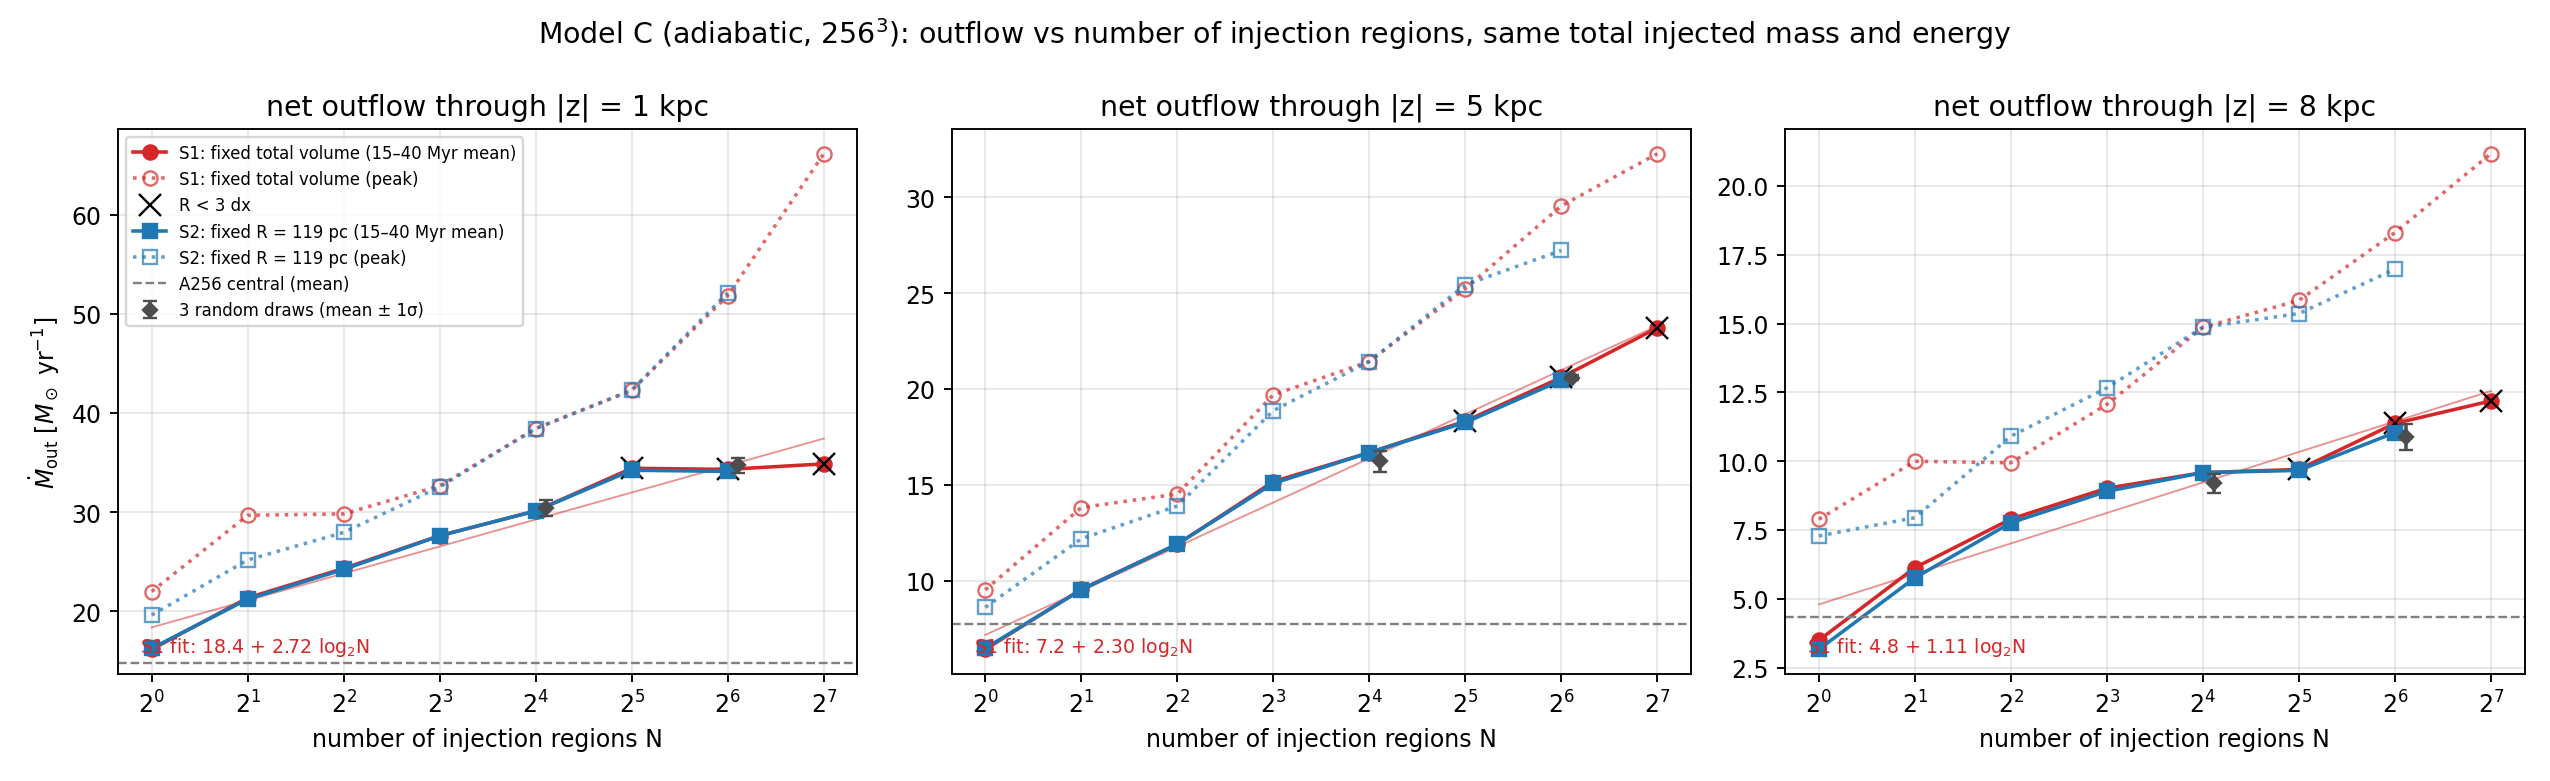
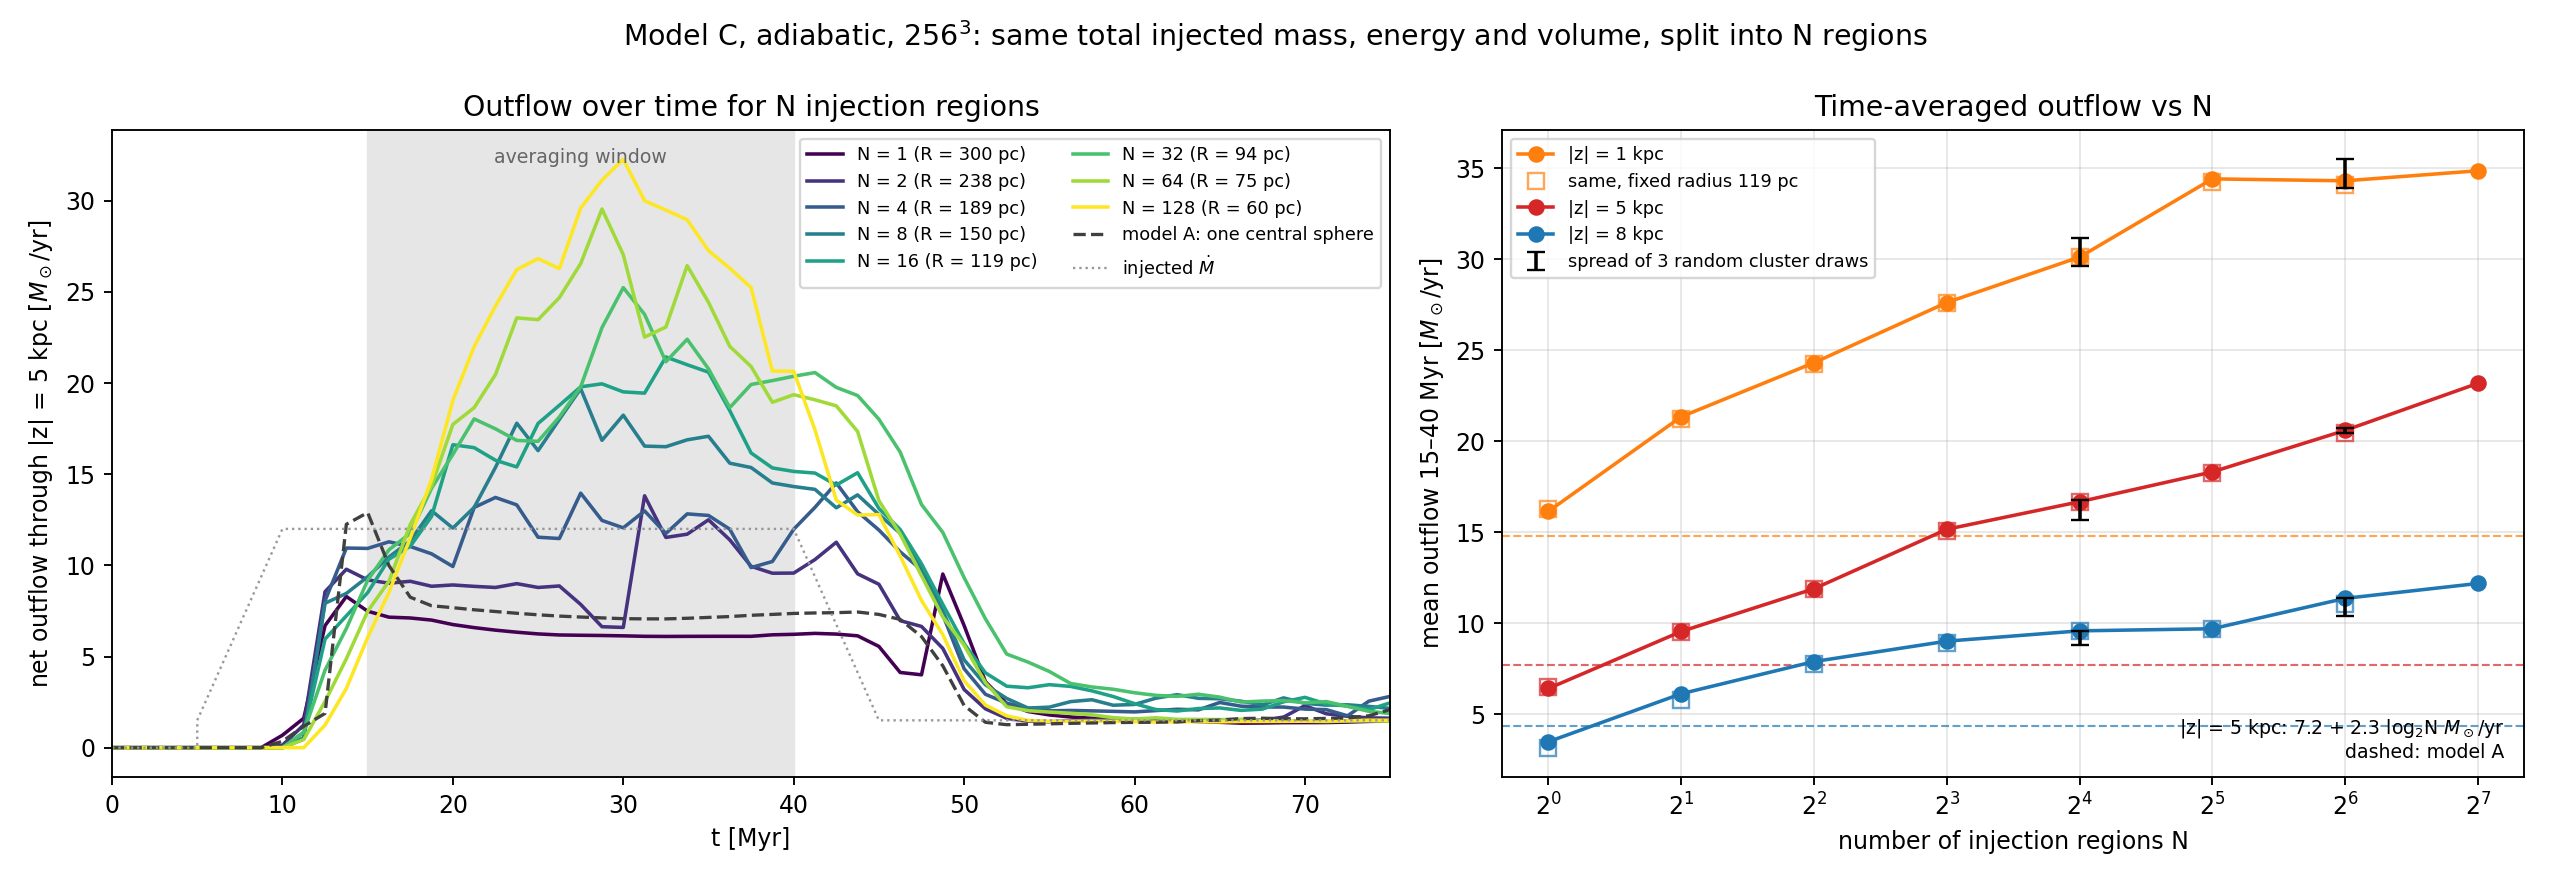
cgols: model C default tag _C (_Ccool radiative); clearer cluster-number figure
The cluster-number figure now shows the net outflow through |z| = 5 kpc against
time, one line per number of injection regions N (1-128) with model A and the
injected rate, next to the 15-40 Myr mean against N at 1/5/8 kpc (fixed-radius
runs as open squares, the spread of three random cluster draws as error bars,
model A dashed). The C512rot comparison uses the renamed runs.

Claude-Session: https://claude.ai/code/session_017KSSY2CwxMXeapK3WuKUK4

diff --git a/pytests/self_gravity/cgols/cgols_cluster_number_scaling.py b/pytests/self_gravity/cgols/cgols_cluster_number_scaling.py
@@ -64,55 +64,77 @@ def metrics(run):
     return out
 
 
+def outflow_series(run, height=5.0):
+    """Times [Myr] and net outflow [Msun/yr] through |z| = height for one run."""
+    t, mdot = load(run)
+    z = (np.arange(mdot.shape[1]) + 0.5) * BOX_Z / mdot.shape[1] - BOX_Z / 2
+    return t, mdot[:, np.argmin(np.abs(z - height))] - mdot[:, np.argmin(np.abs(z + height))]
+
+
 def main():
-    s1 = {n: metrics(r) for n, r in S1.items()}
-    s2 = {n: metrics(r) for n, r in S2.items()}
+    fixed_volume = {n: metrics(r) for n, r in S1.items()}
+    fixed_radius = {n: metrics(r) for n, r in S2.items()}
     ref = metrics(REFERENCE)
     seeds = {n: [m for m in (metrics(r) for r in runs) if m is not None] for n, runs in SEEDS.items()}
 
-    figure, axes = plt.subplots(1, 3, figsize=(15, 4.6))
-    for axis, H in zip(axes, (1.0, 5.0, 8.0)):
-        for series, label, marker, color in ((s1, "S1: fixed total volume", "o", "C3"),
-                                             (s2, "S2: fixed R = 119 pc", "s", "C0")):
-            n = np.array([k for k, v in series.items() if v is not None])
-            mean = np.array([series[k][H][0] for k in n])
-            peak = np.array([series[k][H][1] for k in n])
-            axis.plot(n, mean, marker=marker, color=color, ls="-", label=f"{label} (15–40 Myr mean)")
-            axis.plot(n, peak, marker=marker, color=color, ls=":", mfc="none", alpha=0.7,
-                      label=f"{label} (peak)")
-            if series is s1:
-                under = n[(300.0 / n ** (1 / 3)) < 3 * DX_PC]
-                axis.plot(under, [series[k][H][0] for k in under], "x", color="k", ms=9,
-                          label="R < 3 dx" if H == 1.0 else None)
-                fit = np.polyfit(np.log2(n), mean, 1)
-                axis.plot(n, np.polyval(fit, np.log2(n)), color="C3", lw=0.8, alpha=0.5)
-                axis.text(0.03, 0.04, f"S1 fit: {fit[1]:.1f} + {fit[0]:.2f} log$_2$N",
-                          transform=axis.transAxes, fontsize=8, color="C3")
-        for n, runs in seeds.items():
-            values = [m[H][0] for m in runs]
-            axis.errorbar(n * 1.08, np.mean(values), yerr=np.std(values, ddof=1) if len(values) > 1 else 0,
-                          fmt="D", color="0.3", ms=4, capsize=3,
-                          label="3 random draws (mean ± 1σ)" if (H == 1.0 and n == 16) else None)
+    figure = plt.figure(figsize=(15, 5.2))
+    grid = figure.add_gridspec(1, 2, width_ratios=[1.25, 1.0])
+
+    # Left: outflow through |z| = 5 kpc against time, one line per number of regions.
+    axis = figure.add_subplot(grid[0])
+    colormap = plt.get_cmap("viridis")
+    ns = [n for n in S1 if fixed_volume[n] is not None]
+    for k, n in enumerate(ns):
+        t, rate = outflow_series(S1[n])
+        axis.plot(t, rate, color=colormap(k / max(len(ns) - 1, 1)), lw=1.5,
+                  label=f"N = {n} (R = {300 / n ** (1 / 3):.0f} pc)")
+    t, rate = outflow_series(REFERENCE)
+    axis.plot(t, rate, color="0.25", ls="--", lw=1.4, label="model A: one central sphere")
+    axis.plot([0, 5, 5, 10, 40, 45, 75], [0, 0, 1.5, 12, 12, 1.5, 1.5], color="0.6", ls=":", lw=1,
+              label=r"injected $\dot M$")
+    axis.axvspan(15, 40, color="0.9", zorder=0)
+    axis.text(27.5, axis.get_ylim()[1] * 0.97, "averaging window", ha="center", va="top", fontsize=8, color="0.4")
+    axis.set(xlabel="t [Myr]", ylabel=r"net outflow through |z| = 5 kpc [$M_\odot$/yr]", xlim=(0, 75),
+             title="Outflow over time for N injection regions")
+    axis.legend(fontsize=7.5, ncol=2, loc="upper right")
+
+    # Right: time-averaged outflow (15-40 Myr) against N, at three heights.
+    axis = figure.add_subplot(grid[1])
+    for height, color in ((1.0, "C1"), (5.0, "C3"), (8.0, "C0")):
+        n = np.array(ns)
+        axis.plot(n, [fixed_volume[k][height][0] for k in n], "o-", color=color,
+                  label=f"|z| = {height:g} kpc")
+        nr = np.array([k for k in S2 if fixed_radius[k] is not None])
+        axis.plot(nr, [fixed_radius[k][height][0] for k in nr], "s", mfc="none", color=color, ms=7, alpha=0.7,
+                  label="same, fixed radius 119 pc" if height == 1.0 else None)
+        for k, runs in seeds.items():
+            values = [m[height][0] for m in runs]
+            axis.errorbar(k, np.mean(values), yerr=np.std(values, ddof=1), fmt="none", ecolor="k", capsize=4,
+                          label="spread of 3 random cluster draws" if (height == 1.0 and k == 16) else None)
         if ref is not None:
-            axis.axhline(ref[H][0], color="0.5", ls="--", lw=1, label="A256 central (mean)" if H == 1.0 else None)
-        axis.set_xscale("log", base=2)
-        axis.set(xlabel="number of injection regions N", title=f"net outflow through |z| = {H:g} kpc")
-        axis.grid(alpha=0.3)
-    axes[0].set_ylabel(r"$\dot M_{\rm out}$ [$M_\odot$ yr$^{-1}$]")
-    axes[0].legend(fontsize=7, loc="upper left")
-    figure.suptitle("Model C (adiabatic, 256$^3$): outflow vs number of injection regions, same total injected mass and energy")
+            axis.axhline(ref[height][0], color=color, ls="--", lw=0.9, alpha=0.7)
+    fit = np.polyfit(np.log2(ns), [fixed_volume[k][5.0][0] for k in ns], 1)
+    axis.text(0.98, 0.03, f"|z| = 5 kpc: {fit[1]:.1f} + {fit[0]:.1f} log$_2$N $M_\\odot$/yr\ndashed: model A",
+              transform=axis.transAxes, ha="right", fontsize=8)
+    axis.set_xscale("log", base=2)
+    axis.set(xlabel="number of injection regions N", ylabel=r"mean outflow 15–40 Myr [$M_\odot$/yr]",
+             title="Time-averaged outflow vs N")
+    axis.grid(alpha=0.3)
+    axis.legend(fontsize=7.5, loc="upper left")
+
+    figure.suptitle("Model C, adiabatic, 256$^3$: same total injected mass, energy and volume, split into N regions")
     figure.tight_layout()
     os.makedirs(FIG_DIR, exist_ok=True)
     out = os.path.join(FIG_DIR, "model_c_cluster_number_scaling_256.png")
     figure.savefig(out, dpi=170)
     print(f"wrote {out}")
 
-    print(f"{'N':>4} {'S1 5kpc':>8} {'S2 5kpc':>8} {'S1 1kpc':>8} {'S1 M5 [1e8]':>12}")
-    for n in S1:
-        a, b = s1.get(n), s2.get(n)
-        print(f"{n:>4} {a[5.0][0]:8.2f} {(b[5.0][0] if b else float('nan')):8.2f} {a[1.0][0]:8.2f} {a['cumulative'] / 1e8:12.2f}")
+    print(f"{'N':>4} {'R [pc]':>7} {'5kpc':>7} {'1kpc':>7} {'8kpc':>7} {'M5 [1e8 Msun]':>14}")
+    for n in ns:
+        m = fixed_volume[n]
+        print(f"{n:>4} {300 / n ** (1 / 3):7.0f} {m[5.0][0]:7.2f} {m[1.0][0]:7.2f} {m[8.0][0]:7.2f} {m['cumulative'] / 1e8:14.2f}")
     if ref:
-        print(f"A256 {ref[5.0][0]:8.2f} {'':8} {ref[1.0][0]:8.2f} {ref['cumulative'] / 1e8:12.2f}")
+        print(f"   A {'300':>7} {ref[5.0][0]:7.2f} {ref[1.0][0]:7.2f} {ref[8.0][0]:7.2f} {ref['cumulative'] / 1e8:14.2f}")
 
 
 if __name__ == "__main__":

diff --git a/pytests/self_gravity/cgols/cgols.py b/pytests/self_gravity/cgols/cgols.py
@@ -15,8 +15,8 @@ at the end of this file (outputs are tagged ``_B`` so the two series never
 collide). ``CGOLS_FEEDBACK=clusters`` replaces the central injection sphere by
 clustered feedback, model C (by default 16 co-rotating, staggered star-cluster
 complexes calibrated on M82; ``CGOLS_CLUSTER_PRESET=cholla`` gives CGOLS I's
-eight static, re-drawn clusters; see the CGOLS_CLUSTER_* knobs; tagged ``_Cad``
-adiabatic / ``_C`` radiative).
+eight static, re-drawn clusters; see the CGOLS_CLUSTER_* knobs; tagged ``_C``
+adiabatic / ``_Ccool`` radiative).
 
 ``CGOLS_MHD=1`` is an experimental ideal-MHD variant beyond the paper: an
 observationally (M82) motivated toroidal disk field at constant plasma beta,
@@ -1032,10 +1032,10 @@ CT_UPWIND = os.environ.get("CGOLS_CT_UPWIND", "1") == "1"
 # state .npy) so several experiment runs can coexist without clobbering each
 # other or the production outputs. Defaults to "_B" for a radiative run, so the
 # A- and B-series never share snapshot / checkpoint / log / figure filenames.
-# Clustered feedback defaults to "_C" (radiative, the paper's model C) or
-# "_Cad" (adiabatic); the series runner tags them _C<dim> / _C<dim>ad.
+# Clustered feedback defaults to "_C" (adiabatic, like A) or "_Ccool"
+# (radiative); the series runner tags them _C<dim> / _C<dim>cool.
 if CLUSTERS:
-    _DEFAULT_RUN_TAG = "_C" if COOLING else "_Cad"
+    _DEFAULT_RUN_TAG = "_Ccool" if COOLING else "_C"
 else:
     _DEFAULT_RUN_TAG = "_B" if COOLING else ""
 # CGOLS_X64=1 suffixes the DEFAULT tag with "_x64"; an explicit CGOLS_RUN_TAG
